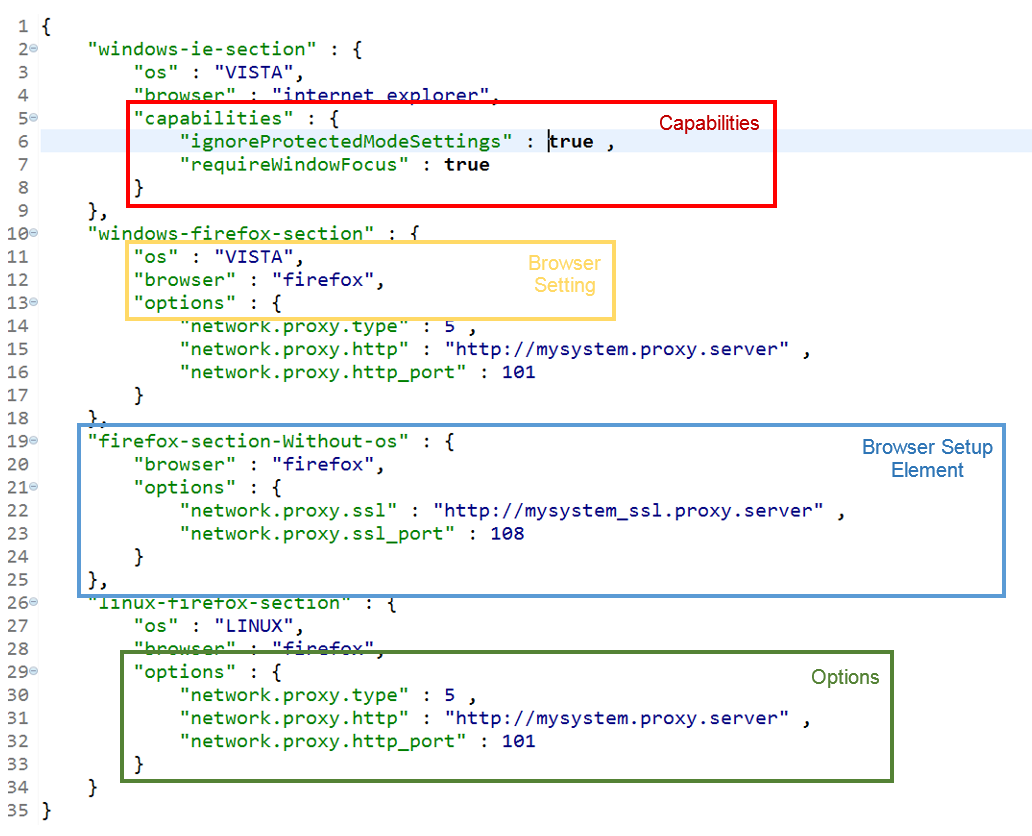
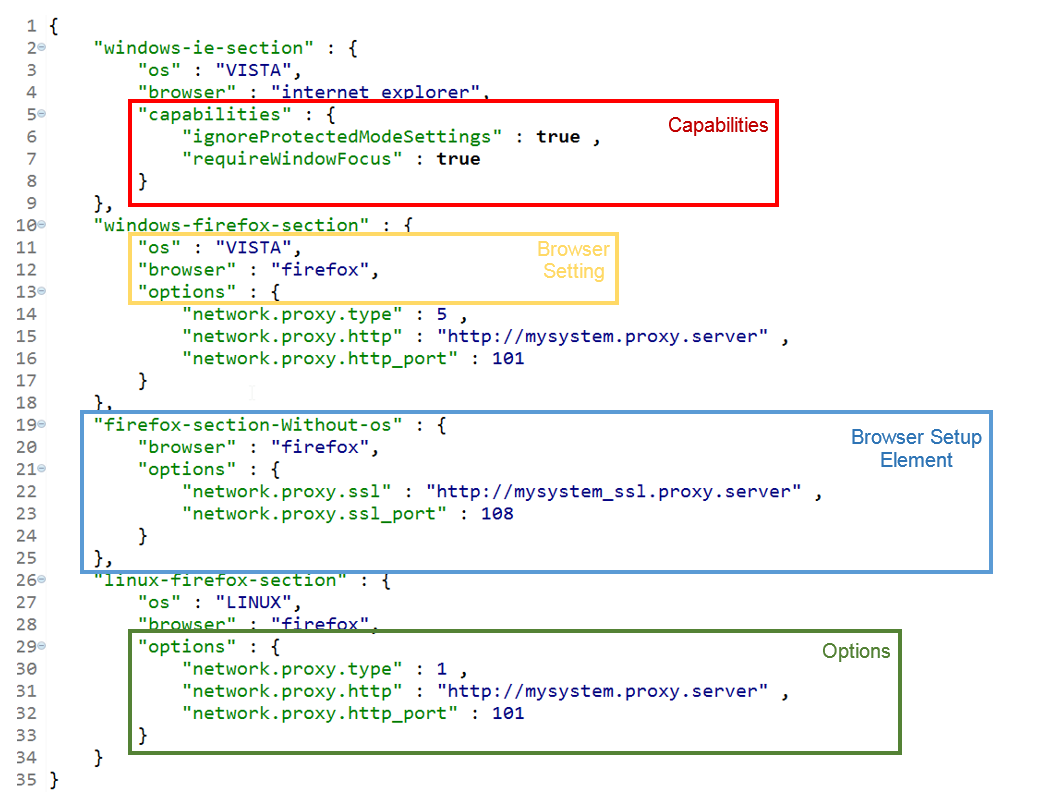
Decumentation added Images added and readme.md expanded with documentation for options and capabilties.

Changed region(s): [[0.0, 0.0308, 0.9922, 0.9852], [0.093, 0.0308, 0.5891, 0.2155]]

diff --git a/docs/BROWSERSETUP.md b/docs/BROWSERSETUP.md
@@ -1,0 +1,55 @@
+# Browser Setup for Testing
+It is possible to activate browser-specific settings before test execution.  
+E.g. when a special proxy setting is needed for Firefox on a System Under Test (SUT) environment under Linux which is different to the proxy setting under Windows, it is possible to create a JSON-File called **browserSetup.json** in the directory **src/test/resources** of the actual test project. These specified settings will be used for test execution.
+
+## Documentation for Options
+For [Firefox Options](https://seleniumhq.github.io/selenium/docs/api/rb/Selenium/WebDriver/Firefox/Options.html)
+there is also the possibility to configure all browser preferences with the help of options, just enter the key and the value for the needed preference in the options section and there you go. 
+
+## Documentation for Capabilities
+See [DesiredCapabilities](https://github.com/SeleniumHQ/selenium/wiki/DesiredCapabilities)
+
+
+## Example structure of the JSON-File   
+![BrowserSetup](/images/browserSetup.png)
+
+### Browser Setup Elements
+The **browserSetup.json** file consists of several different browser setup elements marked blue in the screenshot.  
+See  
+![allBrowserSetupElements](/images/allBrowserSetupElements.png)
+
+  
+Each element consists of    
+* an arbitrarily chosen element name  
+![elementName](/images/elementName.png)
+* an optional browser setting entry for the platform  
+![osName](/images/osEntry.png) 
+* an optional browser setting entry for the browser to test   
+![browserEntry](/images/browserEntry.png)  
+* an optional browser setting entry for options   
+![options](/images/options.png)       
+* an optional browser setting entry for capabilities  
+![capabilities](/images/capabilities.png)
+
+### Browser Settings
+#### Key "os"  
+When a test should run with OS-specific settings the key for "os" must be set. For the specific values please refer to the OS-specific values on the Selenium web site under [DesiredCapabilities].(https://github.com/SeleniumHQ/selenium/wiki/DesiredCapabilities)  
+When a test should run without OS-specific settings, the specified "Browser Settings" under this "Browser Setup Element" is valid for all OS (currently WINDOWS, LINUX, MAC). It is also possible to mix both options for os-specific and not os-specific. An error will occur during a test on a given operating system, if duplicate entries for the same key exist. In the screenshot we have an example for setting the SSL proxy URL and the SSL proxy port for all OS (see screenshot BrowserSetup-Element "firefox-section-Without-os")  
+![BrowserSetup-Element](/images/allBrowserSetupElements.png)  
+and for the Linux OS the proxy type varies (1 instead of 5 see screenshot proxyType) in contrast to Windows OS proxy type.  
+![proxyType](/images/proxyType.png) 
+  
+#### Key "browser"
+When a test should run with browser-specific settings the key for "browser" must be set.  
+For the specific browser names, please refer to the Selenium web site under [DesiredCapabilities](https://github.com/SeleniumHQ/selenium/wiki/DesiredCapabilities).   
+When no browser entry is specified, that means all options and capabilities are defined for all browser vendors.  
+ 
+#### Key "options"
+When a test should run with browser-specific option settings the key for "options" must be set.  
+For the browser-specific values please refer to the particular browser vendor.
+
+#### Key "capabilities"
+When a test should run with browser-specific capability settings the key for "capabilities" must be set.  
+see screenshot capabilities.  
+![capabilities](/images/capabilities.png).  
+Please refer for the browser-specific values to the Selenium web site under [DesiredCapabilities](https://github.com/SeleniumHQ/selenium/wiki/DesiredCapabilities). 

diff --git a/README.md b/README.md
@@ -18,3 +18,7 @@ In order to create a release switch to the `master` branch and execute
     ./gradlew release
 
 and enter the new version. After the commit and tag is pushed Travis will automatically build and deploy the tagged version to Bintray.
+
+### Browser Setup
+
+please refer to [Documentation for browser specific testing with options and capabilities](docs/BROWSERSETUP.md)
